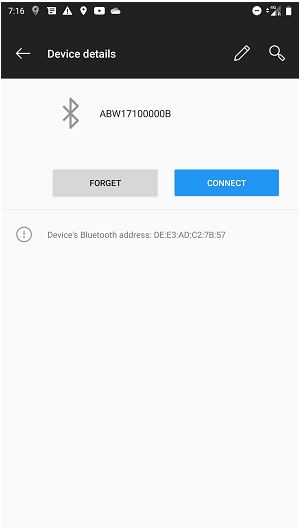
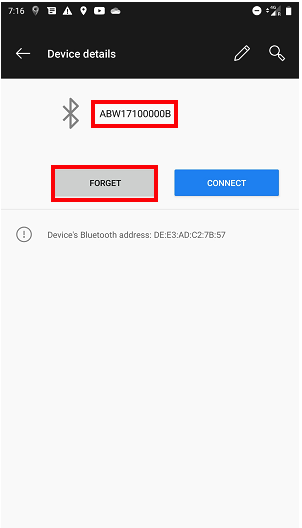
abeeway app getting started guide

Changed region(s): [[0.149, 0.303, 0.5364, 0.3939], [0.298, 0.1818, 0.596, 0.2424]]

diff --git a/docs/.vuepress/config.js b/docs/.vuepress/config.js
@@ -66,8 +66,13 @@ module.exports = {
                             ],
                         },
                         {
+                            title: 'Getting started with Abeeway tracking app',
+                            path: '/C-Procedure-Topics/GetStartedMobileApp_T/',
+                            collapsable: true,
+                        },
+                        {
                             title: 'Connecting your LoRaWAN network server',
-                            path: '/C-Procedure-Topics/ProvisionTrackerTPE_T/',
+                            path: '/C-Procedure-Topics/ProvisionTrackerOverview_T/',
                             collapsable: true,
                             sidebarDepth: 0,
                             children: [

diff --git a/docs/C-Procedure-Topics/GetStartedMobileApp_T/README.md b/docs/C-Procedure-Topics/GetStartedMobileApp_T/README.md
@@ -1,0 +1,200 @@
+# Getting started with Abeeway tracking app
+
+Abeeway tracking app is a mobile app that runs on smartphones which can interact with Abeeway trackers. It can be used to track pets, keys, objects, etc. It is native mobile APP for iOS and Android and it interacts with the tracker over Bluetooth. For more features of Abeeway tracking app, see [here](https://actilitysa.sharepoint.com/:f:/t/aby/Ep7oeKyEGeZIolF4avQrmf8BBsOOJoFQhjon7jacL4Koig?e=j7iObl)).
+
+Here are the high-level features of the mobile app:
+1.	Visualization of the current locations of multiple devices on a map
+2.	Visualization of the location history of a device on a map
+3.	Device localization on demand (to find a device on a map)
+4.	Location sharing with friends, co-workers
+5.	Page a device and make it beep (to find a device connected via Bluetooth)
+6.	Geofencing
+7.	Alarms (SOS, Motion, Leaving/entering geofenced zones)
+8.	Airplane mode (ability to shutdown the tracker)
+9.	Firmware update
+10.	Developer mode features
+
+
+## Prerequisites
+To complete this getting started guide, you need:
+* Abeeway trackers compatible with the mobile app. The app is compatible with the following tracker models.
+  - Micro tracker V3.x
+  - Smart Badge
+  - Compact tracker
+  - Industrial tracker V2
+
+* Minimum Firmware Version
+  - MCU Firmware 2.2.1 (**For App version 1.0.2 and below**)
+  - MCU Firmware >= 2.3.x (**For App version 1.0.3 and above**)
+  - BLE Firmware >= 3.3.x (**For all the App versions**)
+
+* Tracker Configuration. We recommend that before the tracker is added to the mobile app. It is flashed with the default configuration files. Before adding the tracker to the mobile app, it is important that the trackers are flashed with minimum MCU FW: 2.2.0 and BLE FW: 3.3.0 respectively. 
+  - The update of the MCU Firmware can be carried out by the [Abeeway updater](../../D-Reference/AbeewayFirmwareUpdate_R/)
+  - The MCU Firmware binary & config files are available [here](https://actilitysa.sharepoint.com/:w:/t/aby/EcuMNrIEoB9HvcIkCTXu2TkBTQQ49cYaQA2y1Wa6TmFmNg?e=Z1nEYc)
+
+| Tracker Type | MCU Firmware Config file|
+| --------------------- | ----- |
+| Micro Tracker V3.0    | ProdMicro\_EU\_IN\_YYYYMMDD<sup>(1)</sup>  (Region: EU868) </br> ProdMicro\_US\_YYYYMMDD<sup>(1)</sup>  (Region: US915) </br> ProdMicro\_AS\_AU\_YYYYMMDD<sup>(1)</sup> (Region: AS923/AU915) |
+| Smart Badge           | ProdSmartBadge\_EU\_IN\_YYYYMMDD<sup>(1)</sup>  (Region: EU868) </br> ProdSmartBadge\_US\_YYYYMMDD<sup>(1)</sup>  (Region: US915) </br> ProdSmartBadge\_AS\_AU\_YYYYMMDD<sup>(1)</sup>  (Region: AS923/AU915) |
+| Compact Tracker       | ProdCompact\_EU\_IN\_YYYYMMDD<sup>(1)</sup>  (Region: EU868) </br> ProdCompact\_US\_YYYYMMDD<sup>(1)</sup>   (Region: US915) </br> ProdCompact\_AS\_AU\_YYYYMMDD<sup>(1)</sup>  (Region: AS923/AU915) |
+| Industrial Tracker V2 | ProdIndustrial\_EU\_IN\_YYYYMMDD<sup>(1)</sup>  (Region: EU868) </br> ProdIndustrial\_US\_YYYYMMDD<sup>(1)</sup>  (Region: US915) </br> ProdIndustrial\_AS\_AU\_YYYYMMDD<sup>(1)</sup> (Region: AS923/AU915) |
+
+* Downloading the app
+  - Android: [here](https://play.google.com/store/apps/details?id=com.abeeway.mobile&hl=en_US&gl=US)
+  - iOS: [here](https://apps.apple.com/au/app/abeeway-wifi-gps-tracking/id1572268239)
+  
+::: warning Notes
+<sup>(1)</sup> YYYYMMDD corresponds to the date when the config files were generated
+:::
+
+  - The update of the BLE Firmware can be carried out using the nRFconnect application on smart phone. Please refer to [AN-001_ble-update](https://actilitysa.sharepoint.com/:f:/t/aby/Evqx0qp6AQ1OqrI7-2DoIxsB1wKjLBjykfPh2p7Lo8mP7g?e=VrNdaS) for more details
+
+## User Profiles
+There are two types of user roles in the mobile app:
+
+*	**End user** – User that owns the trackers and wants to use them (By default, any new mobile app account is end user)</br>
+*	**Admin** – Technical user to detect and solve problems (These users are typically operations team, distributors, and System Integrators. This profile enables advanced functionality in the app and is useful for debugging the tracker over Bluetooth in developer mode and it can be also be used to update the firmware of the trackers over Bluetooth without adding them to the mobile app account.</br>
+
+Please ask [Abeeway support](https://thingpark.page.link/AbeewaySupport) to enable your Mobile app account as an admin user. 
+
+## ThingPark X Location Engine use cases
+ThingPark X location engine has two main use cases:
+ - **B2B Use Case:** In this use case, the customer is using ThingPark X Location engine to manage a fleet of trackers. To be in this use case, the tracker uplinks are sent to [ThingPark Location Application server](../../D-Reference/ThingParkLocationURLs/) and visualize fleet of trackers in [Abeeway Device Manager](../../B-Feature-Topics/AbeewayDeviceManager_C/).
+ - **B2C Use Case:** In this use case, the customer is using Abeeway Mobile app and all the trackers within a specific “Distributor” when logging to the mobile app are in a specific realm/subscriber. To visualize the mobile app trackers in Abeeway Device Manager, it requires logging into ADM with subscriber credentials associated to the realm/Distributor where mobile app end user account exists. For example, to visualize all the trackers in “Abeeway – Ecosystem” distributor, it requires login to ADM as a subscriber that is associated with “Abeeway – Ecosystem” realm. **The subscriber accounts for Abeeway distributors in the mobile app are restricted to Abeeway Operations team.**
+
+::: warning Warning
+**The LoRaWAN routing profile for B2B Use case and B2C Use case should never be set at the same time on the same tracker towards to the same ThingPark Location platform. This is not supported and will result in errors for both the use cases. The tracker can be only in one of the use cases above but NOT both at the same time.**
+:::
+
+## Distributor Selection
+There are three distributors (realms) that are currently configured in the mobile app. It allows you to connect to different mobile app backends.
+
+<img src="./images/appDistributor.png" width="300px" border="1" />
+Here are the general guidelines when selecting the mobile app distributor when creating the account.
+
+| Platform to Choose </br> (Mobile App Distributor) | Purpose|
+| --------------------- | ----- |
+|Abeeway - PREVIEW	| If you are involved in Beta testing of Abeeway Mobile App|
+|Abeeway - ECOSYSTEM |	If you bought the trackers from the [Actility Marketplace](https://market.thingpark.com) |
+|Abeeway - EUROPE |	If you have a large deployment of Abeeway trackers which are connected to public LoRaWAN networks |
+|Abeeway - US |	Not deployed yet |
+|Abeeway - APAC |	Not deployed yet |
+
+
+## Provisioning the trackers
+Abeeway tracker should be provisioned and functioning in the [LoRaWAN network server](../../C-Procedure-Topics/ProvisionTrackerOverview_T/). You will also need an operational access to ThingPark Enterprise user portal: [ThingPark Community](https://community.thingpark.io/tpe/). The tracker uplinks must be routed to the following ThingPark Location Application server.
+
+|   | Information | 
+| - | ----------- | 
+| **Name** |  ThingPark Location - Mobile app | 
+| **URL** | [here](https://abeeway-eu-eco.thingpark.com:50540/?TPXLE_TOKEN=eyJhbGciOiJIUzI1NiJ9.eyJpYXQiOjE2NjM3NzY0NzcsInN1YiI6IjEwMDAxMjg4MyJ9.aAANx1rnybAAiCvYQLmEtPIoWVa7cyxsEVo2JfCHh3o) | 
+| **Content Type** |  XML | 
+| **Tunnel Interface Authentication Key** |  e8959e26fd9bce52700605a9cfe74d53 | 
+
+
+::: warning Notes
+* The instructions in this section are for trackers 
+provisioned in [ThingPark Community](http://community.thingpark.org/) platform and using **Abeeway - Ecosystem** as the distributor realm when creating the mobile app account.  For using other ThingPark platforms with the mobile app, please visit [AN-017_Mobile APP Getting Started Guide](../../D-Reference/DocLibrary_R/#application-notes)
+* **When using the mobile app, it is important to not route the uplinks from the tracker towards other ThingPark Location application servers in the same platorm.**
+:::
+
+## Prepare the trackers
+
+* **Remove the Bluetooth bond on the phone**: You can search for Abeeway trackers in your phone’s Bluetooth settings and you should not see Abeeway device matching your DEVEUI in your phone’s Bluetooth settings. If the Abeeway device is present, then you can click “FORGET” to remove the Bluetooth bond on the phone for this device. The name of Abeeway trackers in phone's bluetooth settings is ABW followed by 9 last digits of DEVEUI. In the example below, the DEVEUI of Abeeway tracker is 20635F017100000B.
+ 
+<img src="../../D-Reference/FirmwareUpdateMobileApp_R/images/forgetBluetoothbond.png" border="1" />
+
+* **Remove the Bluetooth bond on the tracker**: When you restart the tracker, you should hear the [Bluetooth advertisement melody](https://actilitysa.sharepoint.com/:u:/t/aby/EWdjoLPV12BGiHsZptjIOrABxRdVpqTLLJM72K795IUQsg?e=rngKdO) for 15 seconds and the tracker will continue to advertise for 10 minutes<sup>(1)</sup>. After 10 minutes, you must restart the tracker again for it to advertise if it’s not bonded. If you do not hear this melody, and you flashed the tracker correctly with the right firmware and config files, then you need to remove the Bluetooth bond on the tracker in either one of the following ways:
+   * **[With the button sequence](../../D-Reference/MicroTrackerCommands_R)** (This is applicable only to Micro Tracker/Smart Badge): 
+      * **MCU FW 2.2.x and below:** Ensure the device is switched off with long press, followed by the sequence <1 long press , 6 short press, 1 long press> and then restart the device with long press. If the bond removal was successful, you will hear the following BLE advertisement melody.
+
+      * **MCU FW 2.3.x and above:** Hold the button for more than 14 sec to enter ESC sequence. The tracker will play melody indicating the fact that special sequence can be started. Once inside the special sequence, do the following: 1 click, triple click or more, 1x press (between 1 - 4 sec). If the sequence is successful, the tracker will play Bluetooth advertisement melody indicating the Bluetooth bond is removed for about 10 minutes (which is the default configuration).
+   * **Sending the LoRaWAN downlink ff0202** on downlink port = 2 to the Abeeway tracker (This is applicable to ALL the trackers. It requires access to the LoRaWAN account where the tracker is provisioned.)
+   * **Reed Switch Sequence<sup>(2)</sup>**. The special magnet sequence can be used to activate Bluetooth on the compact tracker if there is no Bluetooth bond on the tracker. 
+   * **Using CLI with the tracker connected over USB port**. The tracker can be connected to USB port and then communicate it with serial tool like Tera term. Once connected to Tera term, enter the password **123** as this is the default password to interact with the tracker. Then type **ble clear** to clear the BLE bond on the tracker. For more information, please refer to [AN-013_CLI_Description](../../D-Reference/DocLibrary_R/#application-notes). (This is applicable to ALL the trackers)
+
+::: warning Note
+<sup>(1)</sup> The Bluetooth advertisement duration can be configured by modifying the value of firmware parameter, *ble_cnx_adv_duration* (Parameter ID:0x6F). Please visit [here](../../AbeewayRefGuide/downlink-messages/parameters-configuration/#ble-communication-parameters) for more details.
+
+<sup>(2)</sup> The compact trackers are shipped with default value of *reed_switch_configuration=3*. For more information on reed switch sequence, visit [here](../../AbeewayRefGuide/functioning/user-interfaces/#reed-switch-interface). The video showing this procedure is [here](../../B-Feature-Topics/CompactTracker_C/)
+:::
+
+## Creating an account in the mobile app
+The first step to use the mobile app is to create an account. 
+<img src="./images/appLogin.png" width="300px" border="1" />
+
+When creating an account, please select "Abeeway - Ecosystem" from the distributor dropdown list.
+<img src="./images/appDistributorSelect.png" width="300px" border="1" />
+
+Click the **Register** button to create the account
+<img src="./images/appCreateAccount.png" width="300px" border="1" />
+
+The following screen will prompt you to enter your personal details to complete the account creation process.
+<img src="./images/appRegisterPersonalDetails.png" width="300px" border="1" />
+
+## Adding the tracker to the mobile app account
+
+Once the account is successfully created in the earlier step, goto Add a tracker UI to search for the tracker. </br>
+**The tracker must not be Bluetooth bonded to another phone and advertising itself in Bluetooth. Please visit the section [preparing the trackers](../../C-Procedure-Topics/GetStartedMobileApp_T/#prepare-the-trackers) for more instructions.**
+
+<img src="../../D-Reference/FirmwareUpdateMobileApp_R/images/addtracker.png" border="1" />
+
+The following screens show the workflow of adding the tracker to the mobile app account.
+
+<img src="./images/addtrackerWorkflow.png" width="1000px" border="1" />
+
+## Using the mobile app
+### Viewing the tracker in the app
+Once the tracker is added successfully to the mobile app account, then it's position can be seen on the tracker view UI. It allows visualization of all user’s devices on a map and offers an user-friendly toolbar providing access to the following features:
+* Itinerary, localization on demand, history, alerts set-up and parameters different tracking modes adapted to main consumer uses
+* Ring the tracker to find the object when connected in Bluetooth
+* Battery level, charging status and temperature
+* Change of Profiles. There are three pre-configured profiles in the mobile app:
+  - **INTENSIVE**: Position reporting every 2 minutes
+  - **ECO**: Position reporting every 20 mins
+  - **SLEEP**: Position reporting every hour
+* Personalization of the tracker with another image or name
+* Sharing of the tracker. The mobile app allows the sharing of the tracker with another mobile app end user (in the same Distributor).
+
+### Setting alerts in the app
+
+Mobile app also allows to configure alerts on the tracker. The alerts can be of the following types:
+* Configurable alerts for motion, SoS and geofence Zones
+* **Alert when left behind**: It alerts you when the tracker is Bluetooth disconnected with the mobile app to remind you if the tracker is left behind.
+* Orange/RED Alerts for the loss of connectivity
+  * **Orange alert:** There is no more LoRaWAN or Bluetooth connection with the tracker for 1 hour
+  * **Red Alert:** There is no more LoRaWAN or Bluetooth connection with the tracker for at least 24 hours
+
+<img src="./images/trackerAlerts.png" width="600px" border="1" />
+
+### Visualization of tracker history
+Mobile app can be used to visualize the history of positions, SoS and zone alerts along with the timeline.
+
+<img src="./images/appHistory.png" width="300px" border="1" />
+
+### Sharing the tracker
+Tracker can be shared with other users of the mobile app in the same distributor/realm. If the follower's email account does not exist, they will need to create an account in the mobile app.
+
+The followers can set motion, SoS and geofence zone alerts on the shared tracker.
+
+<img src="./images/trackerSharing.png" width="300px" border="1" />
+
+### Tracker advanced settings
+On the tracker advanced settings history, the user can either firmware update the trackers or shutdown the tracker (over Bluetooth if the tracker is connected to the mobile) or over LoRaWAN. The tracker needs to be turned on manually with a button press if its put in airplane mode.
+
+<img src="./images/advancedSettings.jpg" width="300px" border="1" />
+
+### Developer mode
+
+::: warning Note
+This feature requires the mobile app user account to have an admin role. Please open a ticket on [Abeeway support](../../D-Reference/FAQ_R/README.md) to upgrade the mobile app account to admin role.
+:::
+
+Developer mode of the mobile app allows for advanced tracker debugging or performing firmware update with custom firmware files. Here is the summary of the features:
+* **CLI Terminal:** Emulate CLI terminal to access the tracker CLI over Bluetooth. This enables visualization of tracker traces over Bluetooth
+* **Pre-Defined Profiles:** Apply pre-defined profiles from the backend over Bluetooth
+* **Pre-Defined test patterns:** Run pre-defined test patterns configured in the backend
+
+<img src="./images/developerMode.png" width="900px" border="1" />
+
+

diff --git a/docs/D-Reference/FirmwareUpdateMobileApp_R/README.md b/docs/D-Reference/FirmwareUpdateMobileApp_R/README.md
@@ -31,6 +31,10 @@ This section describes how to carry out the firmware update using Abeeway update
 - Minimum MCU Firmware: 2.2.0
 - Minimum BLE Firmware: 3.3.0
 
+::: warning Note
+Please do not use the mobile app if the installed firmware on the tracker or the target firmware to upgrade is older than above. If you intend to update trackers to older firmware versions or if the installed firmware on the tracker is older than the versions listed above, please use [Abeeway updater](../../D-Reference/AbeewayFirmwareUpdate_R/).
+:::
+
 ## Firmware Update of the trackers inside the Mobile app end user account
 If the tracker is already added to the mobile app end user account, then the firmware update can be easily carried out by going to the tracker advanced settings UI once the tracker is Bluetooth connected to the mobile app.
 
@@ -45,34 +49,36 @@ This option is meant for Abeeway operations team, distributors and integrators w
 
 1. Open a ticket on [Abeeway support](../../D-Reference/FAQ_R/README.md) to upgrade the mobile app account to admin role.
 
-2. **Prepare the trackers**:
+2. **Prepare the mobile phone**:
 
- * **Remove the Bluetooth bond on the phone**: You can search for Abeeway trackers in your phone’s Bluetooth settings and you should not see Abeeway device matching your DEVEUI in your phone’s Bluetooth settings. If the Abeeway device is present, then you can click “FORGET” to remove the Bluetooth bond on the phone for this device.
+ **Remove the Bluetooth bond on the phone**: You can search for Abeeway trackers in your phone’s Bluetooth settings and you should not see Abeeway device matching your DEVEUI in your phone’s Bluetooth settings. If the Abeeway device is present, then you can click “FORGET” to remove the Bluetooth bond on the phone for this device. The name of Abeeway trackers in phone's bluetooth settings is ABW followed by 9 last digits of DEVEUI. In the example below, the DEVEUI of Abeeway tracker is 20635F017100000B.
  
  <img src="../../D-Reference/FirmwareUpdateMobileApp_R/images/forgetBluetoothbond.png" border="1" />
 
- * **Remove the Bluetooth bond on the tracker**: When you restart the tracker, you should hear the [Bluetooth advertisement melody](https://actilitysa.sharepoint.com/:u:/t/aby/EWdjoLPV12BGiHsZptjIOrABxRdVpqTLLJM72K795IUQsg?e=rngKdO) for 15 seconds and the tracker will continue to advertise for 10 minutes<sup>(1)</sup>. After 10 minutes, you must restart the tracker again for it to advertise if it’s not bonded. If you do not hear this melody, and you flashed the tracker correctly with the right firmware and config files, then you need to remove the Bluetooth bond on the tracker in either one of the following ways:
+3. **Prepare the trackers**:
+
+ **Remove the Bluetooth bond on the tracker**: When you restart the tracker, you should hear the [Bluetooth advertisement melody](https://actilitysa.sharepoint.com/:u:/t/aby/EWdjoLPV12BGiHsZptjIOrABxRdVpqTLLJM72K795IUQsg?e=rngKdO) for 15 seconds and the tracker will continue to advertise for 10 minutes<sup>(1)</sup>. After 10 minutes, you must restart the tracker again for it to advertise if it’s not bonded. If you do not hear this melody, and you flashed the tracker correctly with the right firmware and config files, then you need to remove the Bluetooth bond on the tracker in either one of the following ways:
    * **With the button sequence** (This is applicable only to Micro Tracker/Smart Badge): 
       * **MCU FW 2.2.x and below:** Ensure the device is switched off with long press, followed by the sequence <1 long press , 6 short press, 1 long press> and then restart the device with long press. If the bond removal was successful, you will hear the following BLE advertisement melody.
 
       * **MCU FW 2.3.x and above:** Hold the button for more than 14 sec to enter ESC sequence. The tracker will play melody indicating the fact that special sequence can be started. Once inside the special sequence, do the following: 1 click, triple click or more, 1x press (between 1 - 4 sec). If the sequence is successful, the tracker will play Bluetooth advertisement melody indicating the Bluetooth bond is removed for about 10 minutes (which is the default configuration).
    * **Sending the LoRaWAN downlink ff0202** on downlink port = 2 to the Abeeway tracker (This is applicable to ALL the trackers. It requires access to the LoRaWAN account where the tracker is provisioned.)
    * **Reed Switch Sequence<sup>(2)</sup>**. The special magnet sequence can be used to activate Bluetooth on the compact tracker if there is no Bluetooth bond on the tracker. 
-   * **Using CLI with the tracker connected over USB port**. The tracker can be connected to USB port and then communicate it with serial tool like Tera term. Once connected to Tera term, enter the password "123" as this is the default password to interact with the tracker. Then type "ble clear" to clear the BLE bond on the tracker. For more information, please refer to [AN-013_CLI_Description](../../D-Reference/DocLibrary_R/#application-notes). (This is applicable to ALL the trackers)
+   * **Using CLI with the tracker connected over USB port**. The tracker can be connected to USB port and then communicate it with serial tool like Tera term. Once connected to Tera term, enter the password **123** as this is the default password to interact with the tracker. Then type **ble clear** to clear the BLE bond on the tracker. For more information, please refer to [AN-013_CLI_Description](../../D-Reference/DocLibrary_R/#application-notes). (This is applicable to ALL the trackers)
  
-3. Goto Add a tracker UI to search for the tracker
+4. Goto Add a tracker UI to search for the tracker
  <img src="../../D-Reference/FirmwareUpdateMobileApp_R/images/addtracker.png" border="1" />
 
-4. Select the **FIRMWARE UPDATE ONLY** option from the UI and select your tracker
+5. Select the **FIRMWARE UPDATE ONLY** option from the UI and select your tracker
  <img src="../../D-Reference/FirmwareUpdateMobileApp_R/images/firmwareUpdateOnly.png" width="320px" border="1" />
 
-5. After clicking **FIRMWARE UPDATE ONLY** option on the UI, you will see the menu to select the firmware files from your phone or the ones from ThingPark X Location Engine
+6. After clicking **FIRMWARE UPDATE ONLY** option on the UI, you will see the menu to select the firmware files from your phone or the ones from ThingPark X Location Engine
  <img src="../../D-Reference/FirmwareUpdateMobileApp_R/images/firmwareUpdateOptions.png" border="1" />
 
 
 ::: warning Note
-<sup>(1)</sup> The Bluetooth advertisement duration can be configured by modifying the value of firmware parameter, *ble_cnx_adv_duration* (Parameter ID:0x6F)
+<sup>(1)</sup> The Bluetooth advertisement duration can be configured by modifying the value of firmware parameter, *ble_cnx_adv_duration* (Parameter ID:0x6F). Please visit [here](../../AbeewayRefGuide/downlink-messages/parameters-configuration/#ble-communication-parameters) for more details.
 
-<sup>(2)</sup> The compact trackers are shipped with default value of *reed_switch_configuration=3*. For more information on reed switch sequence, visit [here](../../AbeewayRefGuide/functioning/user-interfaces/#reed-switch-interface). The video showing this procedure is [here](../../B-Feature-Topics/CompactTracker_C/)
+<sup>(2)</sup> The compact trackers are shipped with default value of *reed_switch_configuration=3*, which is required for the magnet to activate Bluetooth advertising if its not bonded to any other smart phone. For more information on reed switch sequence, visit [here](../../AbeewayRefGuide/functioning/user-interfaces/#reed-switch-interface). The video showing this procedure is [here](../../B-Feature-Topics/CompactTracker_C/)
 :::
 

diff --git a/docs/D-Reference/ThingParkLocationURLs/readme.md b/docs/D-Reference/ThingParkLocationURLs/readme.md
@@ -14,14 +14,14 @@ Other ThingPark platforms, contact either:
 * [Abeeway support](https://thingpark.page.link/AbeewaySupport) if you purchased trackers from Actility or Abeeway.
 
 
-## Access to Abeeway Device Manager  and DX Location API
+## Access to Abeeway Device Manager and DX Location API
 
 This table describes how to access  (ADM) and  for all the ThingPark platforms.
 
 ::: warning Important
 
-When routing the LoRaWAN® payloads to ThingPark Location, you must set the content type to XML.
-
+- When routing the LoRaWAN® payloads to ThingPark Location, you must set the content type to XML.
+- The routing URLs below are for ThingPark Location B2B use case. If you wish to use Abeeway mobile app, please visit [here](../../C-Procedure-Topics/GetStartedMobileApp_T/README.md). **The routing URL for B2B Use case and B2C Use case should never be set at the same time on the same tracker towards to the same ThingPark Location platform. This is not supported and will result in errors for both the use cases. The tracker can be only in one of the use cases but NOT both at the same time.**
 :::
 
 | ThingPark operator      | Abeeway Device Manager (ADM) | AS routing URL | AS Key (Tunnel Interface Authentication Key) | DX API Platform | DX API Prefix |

diff --git a/docs/C-Procedure-Topics/GetToken_T/README.md b/docs/C-Procedure-Topics/GetToken_T/README.md
@@ -11,7 +11,10 @@ To do so, you need:
 
 1. If you do not have a ThingPark account, create a free account on [https://community.thingpark.org/](https://community.thingpark.org/). If using another platform, see [ThingPark platforms URLs](/D-Reference/ThingParkLocationURLs).<br/>
 
-2. Generate the token on [DX Admin API](https://dx-api-dev1.thingpark.com/admin/latest/swagger-ui/index.html#!/Token/post_oauth_token?shortUrl=tpdx-admin-api-contract.json) as follows and copy it as you will use it for configuring the Network Interface Converter in next step.
-<img src="./images/Integration3PNS-TTN-Norbertv2/Step 2 Get the token for ThingPark.png" border="0" />
-<img src="./images/Integration3PNS-TTN-Norbertv2/Step 2 Get the token for ThingPark_1.png" border="0" />
+2. Generate the token on [DX Admin API](https://dx-api.thingpark.io/getstarted/#/) 
+<img src="./images/Integration3PNS-TTN-Norbertv2/Step2GetTheTokenNew.png" border="0" />
+
+3. Copy the token below it as you will use it for configuring the Network Interface Converter in next step.
+
+<img src="./images/Integration3PNS-TTN-Norbertv2/Step2CopyToken.png" border="0" />
 

diff --git a/docs/C-Procedure-Topics/DeployTrackersAEK_T/README.md b/docs/C-Procedure-Topics/DeployTrackersAEK_T/README.md
@@ -39,7 +39,7 @@ You must change the mode of your industrial or compact tracker before and after 
 * Before starting the tracking, the testing or the integration with the industrial or compact tracker, you must change the mode to **motion tracking**, and change it back to **standby mode** when finished.
  
 
-1. Log in to [Abeeway Device Manager](../../B-Feature-Topics/AbeewayDeviceManager_C/) on the community platform using this URL:[here](https://dev1.thingpark.com/thingpark/abeewayDeviceAnalyzer/index.php?dxprofile=community). The URLs for other ThingPark X Location Engine platforms are [here](../../D-Reference/ThingParkLocationURLs/)
+1. Log in to [Abeeway Device Manager](../../B-Feature-Topics/AbeewayDeviceManager_C/) on the community platform using this URL:[here](https://community.thingpark.io/thingpark/abeewayDeviceAnalyzer/index.php?dxprofile=community-api). The URLs for other ThingPark X Location Engine platforms are [here](../../D-Reference/ThingParkLocationURLs/)
 
 2. In the **Select Devices** column, select the tracker you want to change the mode, and click **Select**.
 

diff --git a/docs/C-Procedure-Topics/UseAbeewayDriver_T/README.md b/docs/C-Procedure-Topics/UseAbeewayDriver_T/README.md
@@ -3,7 +3,7 @@
 The easiest way to encode or decode Abeeway tracker payloads is to use Abeeway Device Manager. You can do that even if you do not have trackers linked to ThingPark Location.
  
 1. Create a free account on: [https://community.thingpark.org/](https://community.thingpark.org/)
-2. Log in to Abeeway Device Manager at the following URL: [https://dev1.thingpark.com/thingpark/abeewayDeviceAnalyzer/index.php?dxprofile=community](https://dev1.thingpark.com/thingpark/abeewayDeviceAnalyzer/index.php?dxprofile=community). If using another platform, see [ThingPark platforms URLs](/D-Reference/ThingParkLocationURLs/).
+2. Log in to Abeeway Device Manager at the following URL: [here](https://community.thingpark.io/thingpark/abeewayDeviceAnalyzer/index.php?dxprofile=community-api). If using another platform, see [ThingPark platforms URLs](/D-Reference/ThingParkLocationURLs/).
 3. You can then encode or decode Abeeway payloads from the device configuration page.
 <img src="./images/ADM_device_configuration_encode_decode_payloads.png" border="0" />
 # Using Abeeway driver

diff --git a/docs/C-Procedure-Topics/TrackAssetsADM_T/README.md b/docs/C-Procedure-Topics/TrackAssetsADM_T/README.md
@@ -6,7 +6,7 @@ You can track your assets locations on a map and assess your tracker performance
 :::
 
 1. Log in to Abeeway Device Manager using the URL that applies to your environment.For example:<br/>
-    * Abeeway Device Manager on [ThingPark Community platform](https://community.thingpark.org/) : [https://dev1.thingpark.com/thingpark/abeewayDeviceAnalyzer/index.php?dxprofile=community](https://iot.thingpark.com/portal/web/)<br/>
+    * Abeeway Device Manager on [ThingPark Community platform](https://community.thingpark.org/) : [here](https://community.thingpark.io/thingpark/abeewayDeviceAnalyzer/index.php?dxprofile=community-api)<br/>
 
     * Abeeway Device Manager on IoT platform: [https://iot.thingpark.com/abeewayDeviceAnalyzer/?dxprofile=iot](https://iot.thingpark.com/portal/web/)<br/>
 If using another platform, see [ThingPark platforms URLs](/D-Reference/ThingParkLocationURLs/).<br/>

diff --git a/docs/C-Procedure-Topics/DeployTrackers_T/README.md b/docs/C-Procedure-Topics/DeployTrackers_T/README.md
@@ -38,7 +38,7 @@ You must change the mode of your industrial or compact tracker before and after 
  
 
 1. Log in to Abeeway Device Manager using the URL that applies to your environment.<br/>
-    * Abeeway Device Manager on [ThingPark Community platform](https://community.thingpark.org/) : [https://dev1.thingpark.com/thingpark/abeewayDeviceAnalyzer/index.php?dxprofile=community](https://iot.thingpark.com/portal/web/)<br/>
+    * Abeeway Device Manager on [ThingPark Community platform](https://community.thingpark.org/) : [here](https://community.thingpark.io/thingpark/abeewayDeviceAnalyzer/index.php?dxprofile=community-api)<br/>
 
     * Abeeway Device Manager on IoT platform: [https://iot.thingpark.com/abeewayDeviceAnalyzer/?dxprofile=iot](https://iot.thingpark.com/portal/web/)<br/>
 If using another platform, see [ThingPark platforms URLs](/D-Reference/ThingParkLocationURLs/).<br/>

diff --git a/docs/C-Procedure-Topics/ChangeTrackerConfiguration_T/README.md b/docs/C-Procedure-Topics/ChangeTrackerConfiguration_T/README.md
@@ -16,7 +16,7 @@ For more information, see [Location templates](/D-Reference/LocationTemplates_R/
 :::
 
 1. Log in to Abeeway Device Manager using the URL that applies to your environment:
-    * Abeeway Device Manager on [ThingPark Community platform](https://community.thingpark.org/) : [https://dev1.thingpark.com/thingpark/abeewayDeviceAnalyzer/index.php?dxprofile=community](https://iot.thingpark.com/portal/web/)
+    * Abeeway Device Manager on [ThingPark Community platform](https://community.thingpark.org/) : [here](https://community.thingpark.io/thingpark/abeewayDeviceAnalyzer/index.php?dxprofile=community-api)
     * Abeeway Device Manager on IoT platform: [https://iot.thingpark.com/abeewayDeviceAnalyzer/?dxprofile=iot](https://iot.thingpark.com/portal/web/)
 
 If using another platform, see [ThingPark platforms URLs](/D-Reference/ThingParkLocationURLs/).<br/>

diff --git a/docs/AbeewayRefGuide/functioning/user-interfaces/readme.md b/docs/AbeewayRefGuide/functioning/user-interfaces/readme.md
@@ -152,9 +152,9 @@ A reed switch is a physical switch operated by an applied magnetic field. The re
 :::tip Notes
 
 <sup>(1)</sup> In the configuration other than \"**Act as a button**\", the reed switch sequence is the following:
-    -   A long activation of the reed switch (between 3 to 6 seconds)
-    -   A long time without activation of the reed switch (between 3 to 6 seconds)
-    -   A long activation of the reed switch (between 3 to 6 seconds)
+  - A long activation of the reed switch (between 3 to 6 seconds) </br>
+  - A long time without activation of the reed switch (between 3 to 6 seconds)</br>
+  - A long activation of the reed switch (between 3 to 6 seconds)</br>
 
 <sup>(2)</sup>  In **Startup** mode, only one action is available and doesn't follow the configuration. The sequence described above is used to exit the **shipping** mode.
 :::

diff --git a/docs/C-Procedure-Topics/TrackAssets_T/README.md b/docs/C-Procedure-Topics/TrackAssets_T/README.md
@@ -11,7 +11,7 @@ Abeeway Device Manager is a ThingPark Location application designed to help you 
 :::
 
 1. Log in to Abeeway Device Manager using the URL that applies to your environment.
-    * Abeeway Device Manager on [ThingPark Community platform](https://community.thingpark.org/) : [https://dev1.thingpark.com/thingpark/abeewayDeviceAnalyzer/index.php?dxprofile=community](https://iot.thingpark.com/portal/web/)<br/>
+    * Abeeway Device Manager on [ThingPark Community platform](https://community.thingpark.org/) : [here](https://community.thingpark.io/thingpark/abeewayDeviceAnalyzer/index.php?dxprofile=community-api)<br/>
 
     * Abeeway Device Manager on IoT platform: [https://iot.thingpark.com/abeewayDeviceAnalyzer/?dxprofile=iot](https://iot.thingpark.com/portal/web/)<br/>
 
